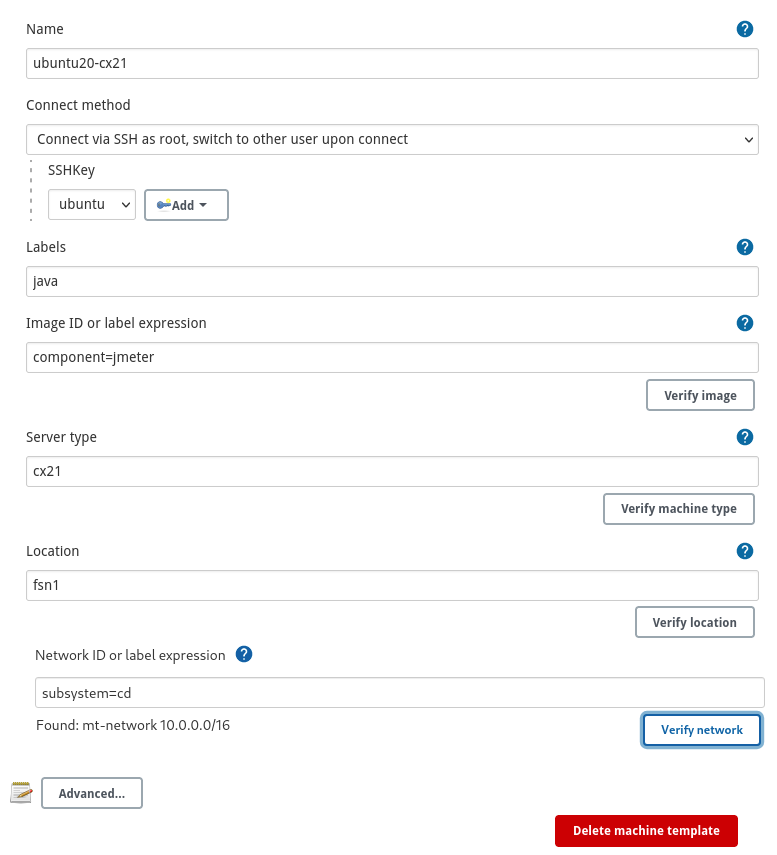
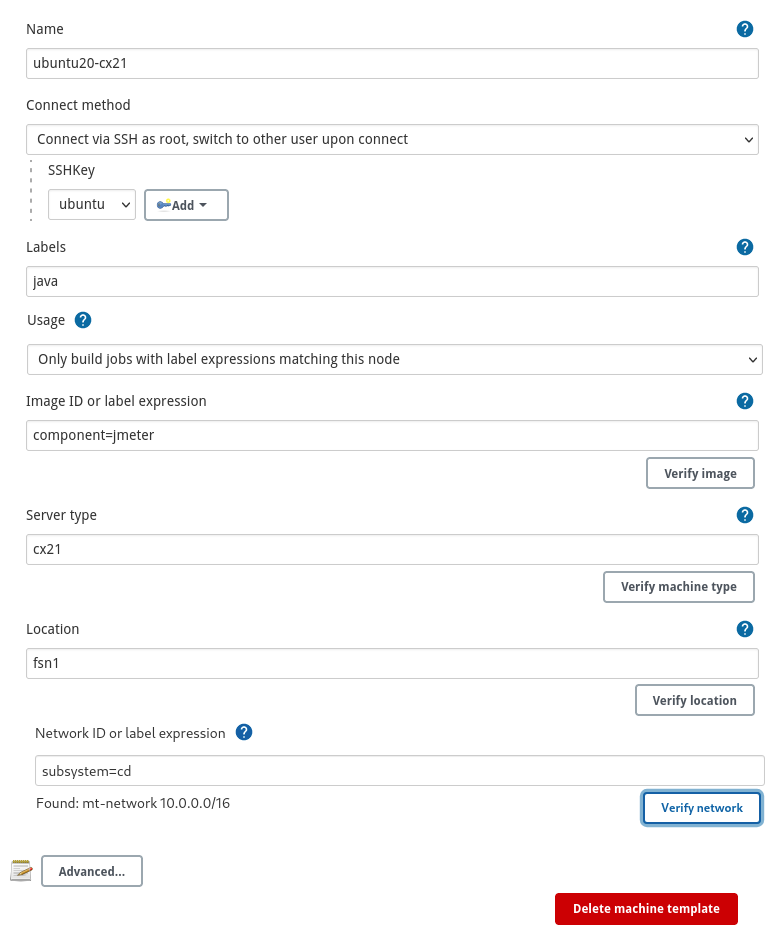
Document usage mode and its relation to node labels

diff --git a/README.md b/README.md
@@ -88,7 +88,18 @@ Following attributes are **required** for each server template:
      User must already exist.
   - `Connect as user specified in credentials` - again, that user must already be known to server and its `~/.ssh/authorized_keys` must contain public key counterpart of chosen SSH credentials.
      See bellow how server image can pre created using Hashicorp packer, which also can be used to populate public SSH key.
-- `Labels` - set of node labels, separated by space
+- `Labels` - Labels that identifies jobs that could run on node created from this template.
+  Multiple values can be specified when separated by space.
+  When no labels are specified and usage mode is set to <strong>Use this node as much as possible</strong>,
+  then no restrictions will apply and node will be eligible to execute any job.
+
+- `Usage` - Controls how Jenkins schedules builds on this node.
+  - `Use this node as much as possible` - In this mode, Jenkins uses this node freely.
+     Whenever there is a build that can be done by using this node, Jenkins will use it.
+  - `Only build jobs with label expressions matching this node` - In this mode, Jenkins will only build a project on this node when that project is restricted to certain nodes using a label expression, and that expression matches this node's name and/or labels.
+    This allows a node to be reserved for certain kinds of jobs. For example, if you have jobs that run performance tests, you may want them to only run on a specially configured machine,
+    while preventing all other jobs from using that machine. To do so, you would restrict where the test jobs may run by giving them a label expression matching that machine.
+    Furthermore, if you set the # of executors value to 1, you can ensure that only one performance test will execute at any given time on that machine; no other builds will interfere.
 
 - `Image ID or label expression` - identifier of server image. It could be ID of image (integer) or label expression.
   In case of label expression, it is assumed that expression resolve into exactly one result.
@@ -155,7 +166,7 @@ jenkins:
             remoteFs: /var/lib/jenkins
             location: fsn1
             image: name=jenkins
-            labelStr: java
+            mode: NORMAL
             numExecutors: 1
             connector:
               root:
